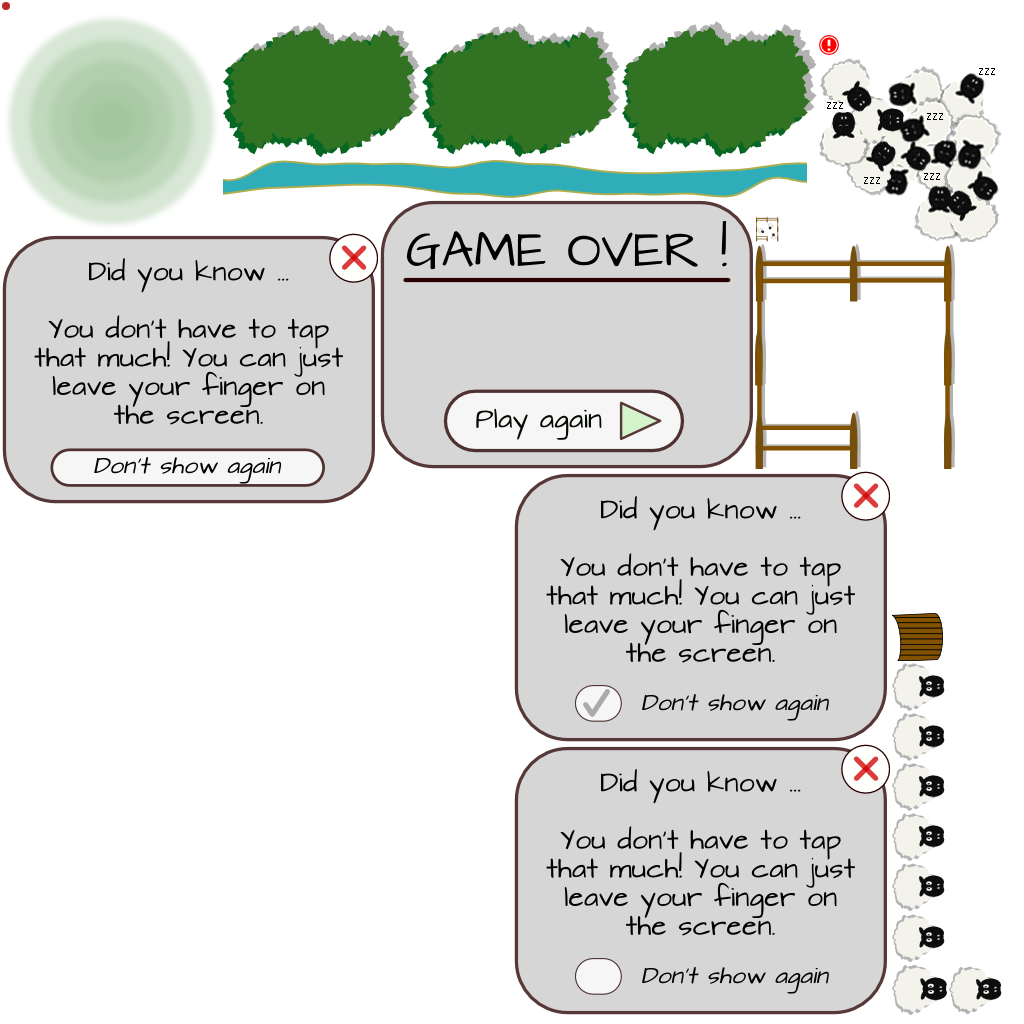
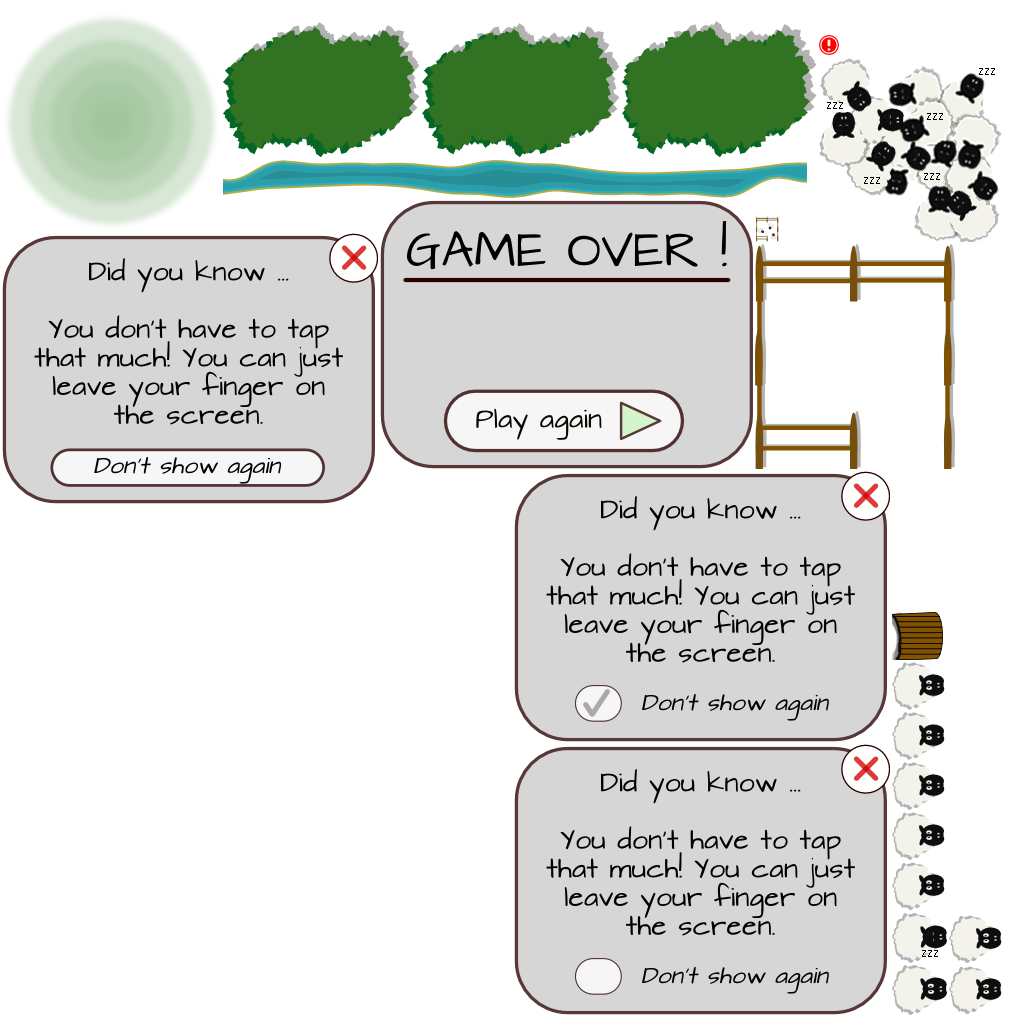
timer rood kleuren

diff --git a/core/src/be/teamsheepy/sheepherder/screens/GameScreen.java b/core/src/be/teamsheepy/sheepherder/screens/GameScreen.java
@@ -320,6 +320,7 @@ public class GameScreen extends ScreenAdapter {
 	}
 
 	private void presentReady() {
+		renderer.sleeping = true;
 		if (SavedData.highscore <= 0) { // only show tutorial when there have
 										// been no sheep collected so far
 			String line1 = "Drag your finger across the screen,";
@@ -337,14 +338,25 @@ public class GameScreen extends ScreenAdapter {
 	}
 
 	private void presentRunning() {
+		renderer.sleeping = false;
 		renderer.renderRetry();
 		Assets.font22.setScale(0.9f);
+		
+		if((world.timeLeft % 60000) / 1000 < 10) {
+			//only 10 sec left
+			game.batcher.setColor(Color.RED);
+			Assets.font22.setColor(Color.RED);
+		} 
 		game.batcher.draw(Assets.clock, 480 - 230, 800 - 53);
 		game.batcher.draw(Assets.time, 480 - 218, 800 - 40,
 				Assets.time.getRegionWidth() / 2f, 0,
 				Assets.time.getRegionWidth(), Assets.time.getRegionHeight(),
 				1f, 1f, world.timeLeft / 166.666f, false);
 		Assets.font22.draw(game.batcher, timeString, 480 - 193, 800 - 30);
+		
+		game.batcher.setColor(Color.WHITE);
+		Assets.font22.setColor(Color.WHITE);
+		
 		game.batcher.draw(Assets.score, 480 - 113, 800 - 53);
 		Assets.font22.draw(game.batcher, scoreString, 480 - 75, 800 - 30);
 		Assets.font22.setScale(0.7f);

diff --git a/core/src/be/teamsheepy/sheepherder/objects/Sheep.java b/core/src/be/teamsheepy/sheepherder/objects/Sheep.java
@@ -91,8 +91,13 @@ public class Sheep extends DynamicGameObject {
 			state = SHEEP_STATE_FREE;
 	}
 
+	
 	@Override
 	public void render(SpriteBatch batch) {
+		//not used
+	}
+	
+	public void render(SpriteBatch batch, boolean sleeping) {
 		if(body == null) return;
 		// sprite.setPosition(position.x, position.y);
 		sprite.setPosition(body.getPosition().x - sprite.getWidth() / 2,
@@ -111,9 +116,15 @@ public class Sheep extends DynamicGameObject {
 		// newSprite.setPosition(sprite.getX(), sprite.getY());
 		// newSprite.draw(batch);
 
-		batch.draw(frame, sprite.getX(), sprite.getY(), sprite.getWidth() / 2f,
+		if(sleeping) {
+			batch.draw(Assets.sleepingsheep, sprite.getX(), sprite.getY(), sprite.getWidth() / 2f,
+					sprite.getHeight() / 2f, sprite.getWidth(), sprite.getHeight(),
+					1f, 1f, sprite.getRotation() - 90, false);
+		} else {
+			batch.draw(frame, sprite.getX(), sprite.getY(), sprite.getWidth() / 2f,
 				sprite.getHeight() / 2f, sprite.getWidth(), sprite.getHeight(),
 				1f, 1f, sprite.getRotation() - 90, false);
+		}
 
 		if (state == SHEEP_STATE_DANGER)
 			batch.draw(Assets.alert,

diff --git a/core/src/be/teamsheepy/sheepherder/WorldRenderer.java b/core/src/be/teamsheepy/sheepherder/WorldRenderer.java
@@ -25,11 +25,13 @@ public class WorldRenderer {
 	private SpriteBatch batch;
 	ImmediateModeRenderer immediateRenderer;
 	Box2DDebugRenderer debugRenderer = new Box2DDebugRenderer();
+	public boolean sleeping;
 
 	public WorldRenderer (SpriteBatch batch, SheepWorld world) {
 		this.world = world;
 		this.batch = batch;
 		this.immediateRenderer = new ImmediateModeRenderer20(false, true, 0);
+		 sleeping = false;
 	}
 
 	public void render (Vector3 touchPos, OrthographicCamera camera) {
@@ -83,7 +85,7 @@ public class WorldRenderer {
 		int len = world.sheeps.size();
 		for (int i = 0; i < len; i++) {
 			Sheep sheep = world.sheeps.get(i);
-			sheep.render(batch);
+			sheep.render(batch, sleeping);
 		}
 	}
 

diff --git a/core/src/be/teamsheepy/sheepherder/Assets.java b/core/src/be/teamsheepy/sheepherder/Assets.java
@@ -44,6 +44,7 @@ public class Assets {
 	public static Sound allSheepInPen;
 	public static TextureRegion confettiWhite;
 	public static TextureRegion sleepingsheep;
+	public static TextureRegion sleepingsheeps;
 
 	public static Texture loadTexture(String file) {
 		return new Texture(Gdx.files.internal(file));
@@ -69,6 +70,7 @@ public class Assets {
 		bridge = atlas.findRegion("bridge");
 		confettiWhite = atlas.findRegion("confettiwit");
 		sleepingsheep = atlas.findRegion("sleepingsheep");
+		sleepingsheeps = atlas.findRegion("sleepingsheeps");
 		alert = atlas.findRegion("alert");
 		clock = atlas.findRegion("clock");
 		clock.getTexture()

diff --git a/core/src/be/teamsheepy/sheepherder/objects/Pen.java b/core/src/be/teamsheepy/sheepherder/objects/Pen.java
@@ -75,6 +75,6 @@ public class Pen extends GameObject {
 	@Override
 	public void render(SpriteBatch batch) {
 		batch.draw(Assets.pen, position.x, position.y);
-		batch.draw(Assets.sleepingsheep, position.x + 10, position.y);
+		batch.draw(Assets.sleepingsheeps, position.x + 10, position.y);
 	}
 }

diff --git a/core/src/be/teamsheepy/sheepherder/WorldGenerator.java b/core/src/be/teamsheepy/sheepherder/WorldGenerator.java
@@ -23,8 +23,8 @@ public class WorldGenerator {
 	
 	public SheepWorld createWorld () {
 		// Variables
-		int MIN_SHEEPS = 3;
-		int MAX_SHEEPS = 3;
+		int MIN_SHEEPS = 10;
+		int MAX_SHEEPS = 10;
 		int MIN_TREES = 1;
 		int MAX_TREES = 3;
 		int MIN_RIVERS = 1;
